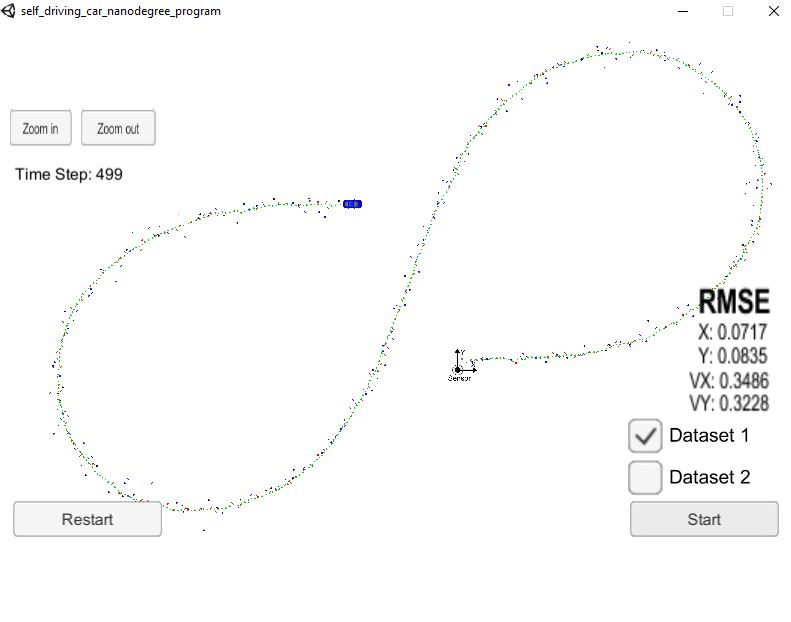
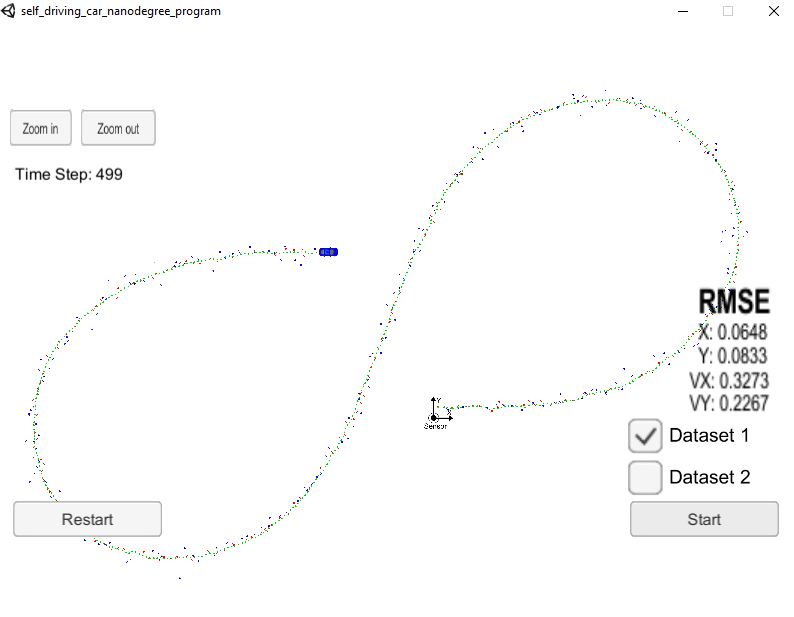
reducing_rmse

diff --git a/src/ukf.cpp b/src/ukf.cpp
@@ -26,10 +26,10 @@ UKF::UKF() {
   P_ = MatrixXd(5, 5);
 
   // Process noise standard deviation longitudinal acceleration in m/s^2
-  std_a_ = 2;
+  std_a_ = 0.9;
 
   // Process noise standard deviation yaw acceleration in rad/s^2
-  std_yawdd_ = 1.0;
+  std_yawdd_ = 0.6;
 
   // Laser measurement noise standard deviation position1 in m
   std_laspx_ = 0.15;
@@ -112,7 +112,7 @@ float UKF::ProcessMeasurement(MeasurementPackage meas_package) {
       */
       x_(0)=meas_package.raw_measurements_(0) *cos(meas_package.raw_measurements_(1));
       x_(1)=-meas_package.raw_measurements_(0) *sin(meas_package.raw_measurements_(1));
-      x_(3)=atan2(x_(1),x_(0));
+//      x_(3)=atan2(x_(1),x_(0));
     }
     else if (meas_package.sensor_type_ == MeasurementPackage::LASER) {
       /**
@@ -120,7 +120,7 @@ float UKF::ProcessMeasurement(MeasurementPackage meas_package) {
       */
       x_(0)=meas_package.raw_measurements_(0);
       x_(1)=meas_package.raw_measurements_(1);
-      x_(3)=atan2(x_(1),x_(0));
+//      x_(3)=atan2(x_(1),x_(0));
     }
     ////long x_size = ekf_.x_.size();
     ////ekf_.I_ = MatrixXd::Identity(x_size, x_size);
